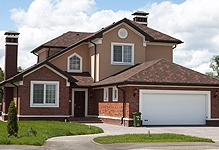
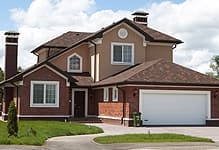
adapted v1.3

diff --git a/price.html b/price.html
@@ -126,8 +126,7 @@
                             <figcaption>
                                 <a href="#"></a>
                                 <picture>
-                                    <source srcset="img/edmonton-pic.webp 1x, img/edmonton-pic@2x.webp 2x"
-                                        type="image/webp">
+                                    <source srcset="img/edmonton-pic.webp 1x" type="image/webp">
                                     <img src="img/edmonton-pic.jpg" alt="проєкт в Едмонтоні">
                                 </picture>
                                 <h3>EDMONTON (338 м<sup>2</sup>)</h3>
@@ -140,8 +139,7 @@
                             <figcaption>
                                 <a href="#"></a>
                                 <picture>
-                                    <source srcset="img/montreal-pic.webp 1x, img/montreal-pic@2x.webp 2x"
-                                        type="image/webp">
+                                    <source srcset="img/montreal-pic.webp 1x" type="image/webp">
                                     <img src="img/montreal-pic.jpg" alt="проєкт в Монреалі">
                                 </picture>
                                 <h3>MONTREAL (332 м<sup>2</sup>)</h3>
@@ -154,8 +152,7 @@
                             <figcaption>
                                 <a href="#"></a>
                                 <picture>
-                                    <source srcset="img/calgary-pic.webp 1x, img/calgary-pic@2x.webp 2x"
-                                        type="image/webp">
+                                    <source srcset="img/calgary-pic.webp 1x" type="image/webp">
                                     <img src="img/calgary-pic.jpg" alt="проєкт в Калгарі">
                                 </picture>
                                 <h3>CALGARY (294 м<sup>2</sup>)</h3>
@@ -168,8 +165,7 @@
                             <figcaption>
                                 <a href="#"></a>
                                 <picture>
-                                    <source srcset="img/richmond-pic.webp 1x, img/richmond-pic@2x.webp 2x"
-                                        type="image/webp">
+                                    <source srcset="img/richmond-pic.webp 1x" type="image/webp">
                                     <img src="img/richmond-pic.jpg" alt="проєкт в Річмонді">
                                 </picture>
                                 <h3>RICHMOND (324 м<sup>2</sup>)</h3>

diff --git a/index.html b/index.html
@@ -78,8 +78,7 @@
                             <figcaption>
                                 <a href="price.html"></a>
                                 <picture>
-                                    <source srcset="img/edmonton-pic.webp 1x, img/edmonton-pic@2x.webp 2x"
-                                        type="image/webp">
+                                    <source srcset="img/edmonton-pic.webp 1x" type="image/webp">
                                     <img src="img/edmonton-pic.jpg" alt="проєкт в Едмонтоні">
                                 </picture>
                                 <h3>EDMONTON (338 м<sup>2</sup>)</h3>
@@ -92,8 +91,7 @@
                             <figcaption>
                                 <a href="price.html"></a>
                                 <picture>
-                                    <source srcset="img/montreal-pic.webp 1x, img/montreal-pic@2x.webp 2x"
-                                        type="image/webp">
+                                    <source srcset="img/montreal-pic.webp 1x" type="image/webp">
                                     <img src="img/montreal-pic.jpg" alt="проєкт в Монреалі">
                                 </picture>
                                 <h3>MONTREAL (332 м<sup>2</sup>)</h3>
@@ -106,7 +104,7 @@
                             <figcaption>
                                 <a href="price.html"></a>
                                 <picture>
-                                    <source srcset="img/calgary-pic.webp 1x, img/calgary-pic@2x.webp 2x" type="image/webp">
+                                    <source srcset="img/calgary-pic.webp 1x" type="image/webp">
                                     <img src="img/calgary-pic.jpg" alt="проєкт в Калгарі">
                                 </picture>
                                 <h3>CALGARY (294 м<sup>2</sup>)</h3>
